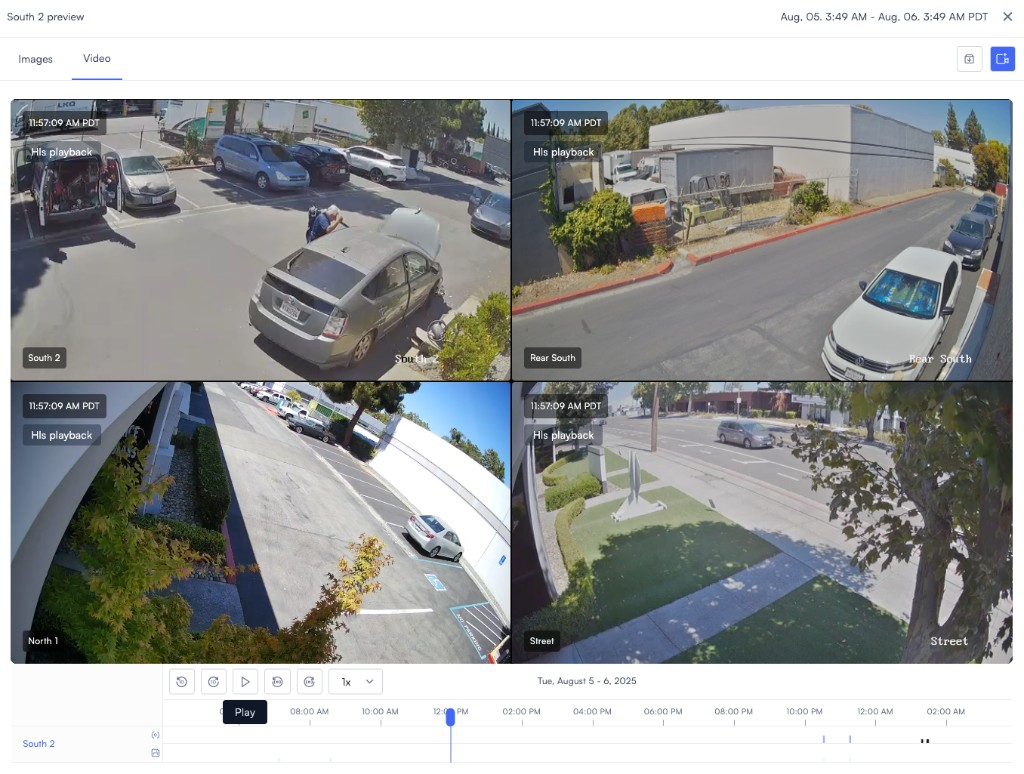
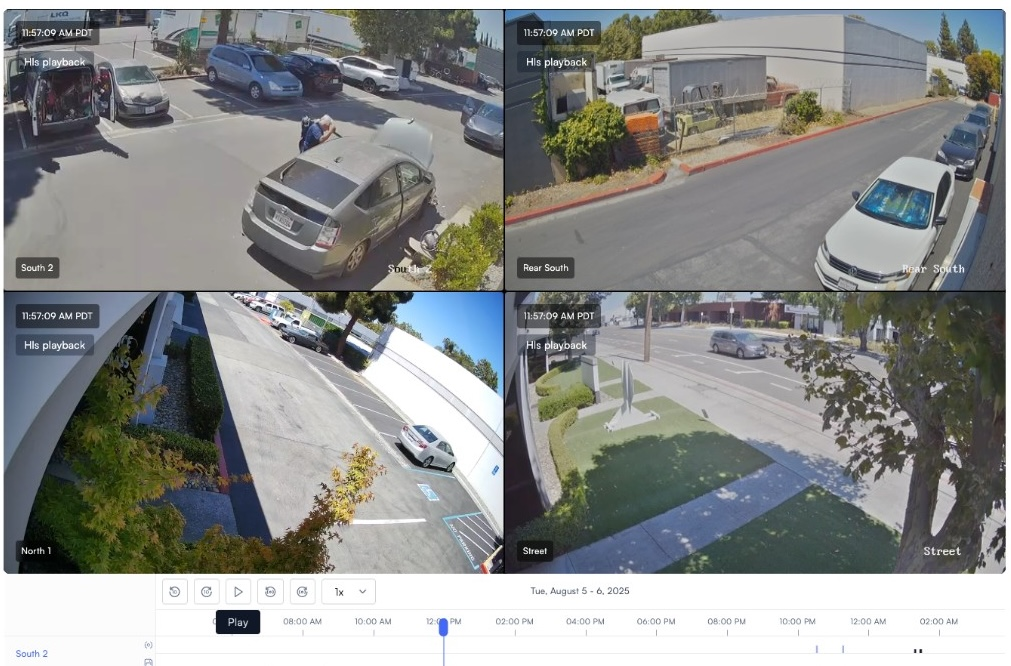
steps

diff --git a/live-video-monitoring-and-operations/multi-camera-playback.md b/live-video-monitoring-and-operations/multi-camera-playback.md
@@ -6,40 +6,36 @@ Use multi-camera playback to review footage from up to four cameras on one synch
 
 ## Before you begin
 
-Make sure the cameras you want to review have recorded footage for the time range you need. You also need access to the other cameras and locations you want to add.
+Make sure usable footage exists around the playback moment you need. Confirm you can reach other cameras before you attach them.
 
-You can start multi-camera playback from views that show thumbnails, such as camera feeds, search results, and alerts.
+You can open a camera viewer from feeds, thumbnails in search results, alerts, or **Devices**.
 
 ## Use multi-camera playback
 
-Start from a camera preview, then open the video timeline and add more cameras to the same playback session.
+Start from a single camera viewer, anchor playback on one date and clock time rather than an end-stop range, then add up to three more synchronized feeds.
 
-1. Open the camera you want to review and select the time range you need.
-2. Select **Video**.
+1. Open the camera you want first.
+2. Select the date-and-time control below the player.
 
-   The playback view opens and shows the multi-camera playback icon in the upper-right corner.
+   The calendar and clock picker opens.
 
-   <div align="center" data-with-frame="true"><img src="../.gitbook/assets/live-video-monitoring-and-operations/multi-camera-playback-video-tab.png" alt="Video tab view with the multi-camera playback icon highlighted." width="563"></div>
+<div align="center" data-with-frame="true"><img src="../.gitbook/assets/live-video-monitoring-and-operations/multi-camera-playback-date-time-and-add.png" alt="Playback view with calendar and time picker open from the date-time button under the frame; multi-camera playback icon annotated at bottom right." width="563"></div>
 
-3. In the upper-right corner of the playback view, select the <img src="../.gitbook/assets/icons/icon-multi-camera-playback.png" alt="Multi-camera playback icon in the playback toolbar." data-size="line"> **multi-camera playback** icon.
+3. Choose the playback date and clock fields for the instant you want to view, which is where playback anchors.
 
-4. Select up to three additional cameras, then select **Select**.
+4. Select **Done**.
 
-   The chooser lets you search cameras and locations before you add them.
+5. Select the <img src="../.gitbook/assets/icons/icon-multi-camera-playback.png" alt="Camera-with-plus icon for adding cameras to playback" data-size="line"> multi-camera playback icon at the bottom-right edge of the video.
 
-   <div align="center" data-with-frame="true"><img src="../.gitbook/assets/live-video-monitoring-and-operations/multi-camera-playback-choose-cameras.png" alt="Choose cameras dialog for multi-camera playback with selected cameras and Select button." width="563"></div>
+6. Select up to three more cameras inside the picker, then select **Select**.
 
-5. Review the synchronized playback view.
+   Search cameras or drill into locations if you need fewer rows on screen.
+
+7. Review the synchronized playback view.
 
    All selected cameras stay on one timeline. You can scrub across the incident, change playback speed, and export footage to the archive.
 
-   <div align="center" data-with-frame="true"><img src="../.gitbook/assets/live-video-monitoring-and-operations/multi-camera-playback-synced-view.png" alt="Synchronized multi-camera playback view with four camera tiles and shared timeline controls." width="563"></div>
-
-{% hint style="info" %}
-In search-based playback, a green highlight on a camera timeline marks frames where the searched object appears, like in the image below.
-{% endhint %}
-
-   <div align="center" data-with-frame="true"><img src="../.gitbook/assets/live-video-monitoring-and-operations/multi-camera-playback-wall-view.png" alt="Multi-camera playback wall view with synchronized camera tiles and shared timeline." width="563"></div>
+<div align="center" data-with-frame="true"><img src="../.gitbook/assets/live-video-monitoring-and-operations/multi-camera-playback-synced-view.png" alt="Synchronized multi-camera playback: 2x2 grid with His playback labels, shared timestamp, camera names, and playback bar with speed, date range, and timeline playhead." width="563"></div>
 
 ## Next steps
 
